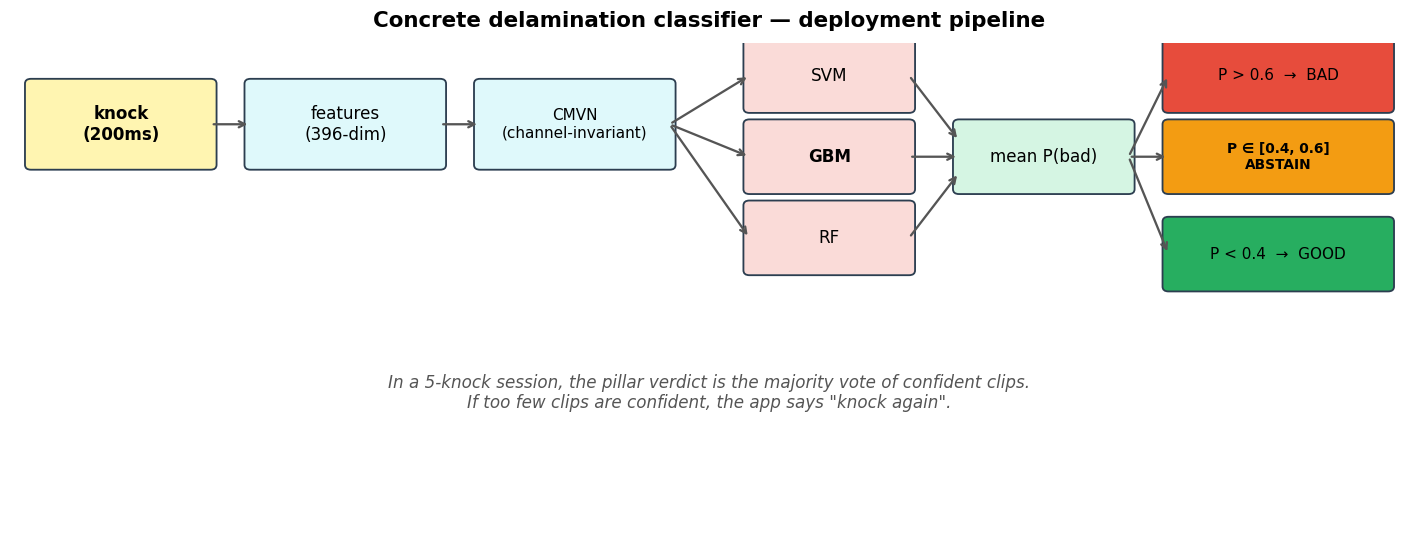
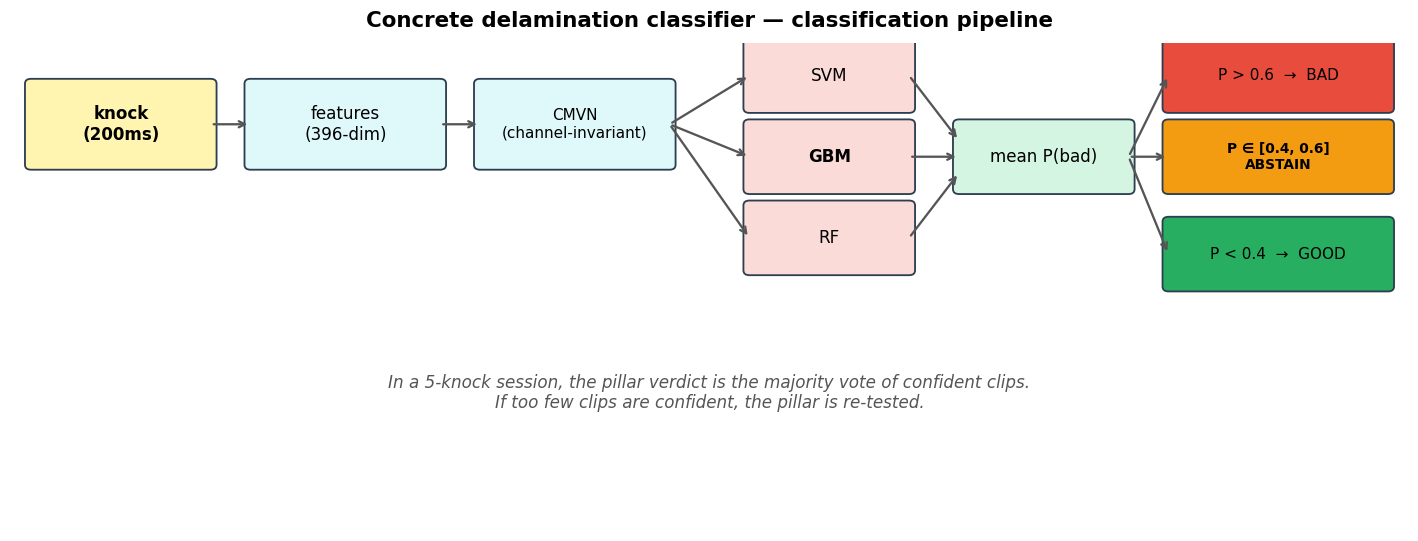
Rewrite README and remove deployment-target framing from notebooks

Changed region(s): [[0.2482, 0.0, 0.7447, 0.0591], [0.3413, 0.7098, 0.6516, 0.7689]]

diff --git a/README.md b/README.md
@@ -1,94 +1,91 @@
 # Acoustic Delamination Detection
 
-Concrete delaminates from the inside. Water gets into the rebar, the rebar rusts, the rust expands, and a
-void opens up between the steel and the surface — all of it invisible from outside. The standard way to find
-it is the **tap test**: hit the concrete with a hammer or a coin and listen. Solid concrete rings. Delaminated
-concrete gives back a flat, dead thud.
+A binary classifier that distinguishes intact from delaminated concrete using the sound of a knock.
 
-That works, but it takes a trained ear, and a junior engineer on their first survey does not have one yet.
-This project trains a classifier to make that call from a phone recording of the knock.
+Concrete delaminates internally when water reaches the rebar and the resulting corrosion expands, opening a
+void between the steel and the surface. The defect is invisible from outside. The standard field method for
+locating it is the tap test: strike the surface and listen. Intact concrete rings; delaminated concrete
+returns a flat, damped thud. Performing the test reliably requires a trained ear, which makes it a
+reasonable candidate for automation.
 
-**580 knock recordings across 37 concrete pillars → mel-spectrogram features → an SVM + gradient boosting +
-random forest ensemble that abstains when it isn't sure.** Everything runs on a laptop CPU in about ten
-minutes. No GPU, no cloud, no deep learning.
+This repository contains the dataset, the feature pipeline, and the model. 580 knock recordings across 37
+concrete pillars are reduced to 396-dimensional feature vectors and classified by an ensemble of an RBF-SVM,
+a gradient boosting model, and a random forest, with an abstention zone for low-confidence clips.
 
-The eventual target was a phone doing this offline in the field, which is why the signal-processing constants
-are fixed at 16 kHz and a 200 ms window and why the classifiers are small enough to serialize. This repo is
-the model and the dataset; the mobile side isn't part of it.
+## Results
 
-| | Original model | This model |
+| | First model | Current model |
 |---|---|---|
 | Cross-validation accuracy | 96.3% | 87.1% |
-| **6 genuinely unseen pillars** | **50.0%** | **100% (6/6)** |
-| Per-clip on those pillars | 56.9% | 91.7% |
+| 6 unseen pillars, per-pillar | 50.0% | 100% (6/6) |
+| 6 unseen pillars, per-clip | 56.9% | 91.7% |
 
-Those two columns are the whole story, and the interesting part is that the first row got *worse*.
+The cross-validation figure decreased while performance on unseen pillars roughly doubled. The reason for
+that is the substance of this project.
 
 ![Holdout accuracy comparison](figures/viz_headline_accuracy.png)
 
----
+## Why the first model failed
 
-## The 96% that wasn't real
+The initial model was an RBF-SVM over 128 mel features. Leave-one-pillar-out cross-validation placed it at
+96.3%. Tested afterwards on six newly recorded pillars, three intact and three delaminated, it classified 3
+of 6 correctly, and every intact pillar was labelled delaminated.
 
-The first version of this was a straightforward RBF-SVM on 128 mel features. Leave-one-pillar-out
-cross-validation put it at 96.3%, which felt like a finished project.
+Four hypotheses were checked:
 
-Then I recorded six new pillars — three good, three delaminated — with the same phone, on a different day.
-The model got 3 out of 6. Every single good pillar was called delaminated. On the pillars it had never seen,
-it was worse than a coin flip that always guesses "bad."
+Overfitting was ruled out. Training accuracy was 91%, below the cross-validation figure, indicating no
+memorization of the training set.
 
-Diagnosing it ruled things out one at a time:
+Class imbalance was ruled out. Ablating `class_weight` produced no measurable change.
 
-- **Not overfitting.** Training accuracy was 91%, below the CV number. There was no memorization to find.
-- **Not class imbalance.** Ablating `class_weight` changed nothing.
-- **It was distribution shift.** A PCA projection showed the new *good* clips landing squarely inside the
-  region of feature space the model had learned as *bad*. New room, new mic distance, new background noise —
-  the features moved, and the decision boundary didn't follow.
-- **And the pillar selection was rigged, by me.** The original training set used 27 of the 31 pillars. Four
-  had been dropped as "noisy recordings." Those four were the only examples of varied recording conditions
-  in the entire dataset. I had thrown away exactly the data that would have taught the model to handle a
-  new room.
+Distribution shift was confirmed. Projecting both sets into a shared PCA basis showed the new intact clips
+falling inside the region the model had learned as delaminated. The recordings were made in a different room
+at a different microphone distance, which moved the features while the decision boundary stayed fixed.
+
+Biased pillar selection was also confirmed. The training set used 27 of 31 available pillars; four had been
+excluded for noisy recording quality. Those four were the only examples of varied recording conditions in
+the dataset, so removing them removed the only signal about recording variability the model could have
+learned from.
 
 ![Feature space PCA](figures/viz_feature_space.png)
 
-The 96% was measuring the wrong thing. Every fold of that cross-validation drew its test pillar from the
-same handful of recording sessions as its training pillars, so "unseen pillar" never meant "unseen
-conditions." The number was real; what it implied was not.
+The 96.3% was not a false measurement, but it did not measure generalization. Every cross-validation fold
+drew its test pillar from the same small set of recording sessions as its training pillars, so holding out a
+pillar never held out a recording condition.
 
-## What changed
+## Changes in the current model
 
-Six things, roughly in order of how much they mattered:
+**All 31 training pillars, no exclusions.** The four previously excluded pillars were restored.
+Cross-validated accuracy fell from 96.3% to 87.1%, reflecting the additional recording variability now
+present in the evaluation rather than a degradation of the model.
 
-**All 31 training pillars, no exclusions.** The noisy ones went back in. Cross-validated accuracy immediately
-fell from 96.3% to 87.1%. That drop is the point — the model didn't get worse, the measurement got honest.
+**Per-clip CMVN.** Normalizing each mel spectrogram to zero mean and unit variance per frequency band
+removes the constant channel response of the microphone and room. The technique is standard in speech
+recognition, where the equivalent problem is the same speaker recorded over different transmission channels.
 
-**Per-clip CMVN.** Normalizing each mel spectrogram to zero mean and unit variance per frequency band strips
-out the constant channel response of the mic and the room. It's borrowed straight from speech recognition,
-where the same problem shows up as "same speaker, different telephone."
+**Augmentation ×5.** Each training clip is expanded into five: volume jitter (±6 dB, for source distance),
+additive Gaussian noise (20–35 dB SNR, for room noise), onset jitter (±10 ms, for windowing error), and
+pitch shift (±0.4 semitones, for resonance variation). Holdout clips are never augmented.
 
-**Augmentation ×5.** Each training clip becomes five: volume jitter (±6 dB, standing in for mic distance),
-Gaussian noise at 20–35 dB SNR (different rooms), onset jitter (±10 ms, sloppy windowing), and pitch shift
-(±0.4 semitones, slight resonance variation). Holdout clips are never augmented.
+**396 features instead of 128.** The original set was mel mean and standard deviation. Added: CMVN-normalized
+mel, delta-mel capturing temporal evolution, eight spectral shape descriptors, three temporal descriptors,
+and a decay time τ fitted to the post-onset RMS envelope. τ is the physically motivated feature: intact
+concrete dissipates vibrational energy slowly, delaminated concrete dissipates it rapidly.
 
-**396 features instead of 128.** The originals were mel mean and standard deviation. Added: CMVN'd mel,
-delta-mel for how the sound evolves, eight spectral shape descriptors, three temporal ones, and a decay time
-τ fitted to the post-onset RMS envelope. That last one is the physically motivated one — intact concrete
-dissipates vibrational energy slowly, delaminated concrete kills it fast — and it's the feature I'd keep if
-I had to keep only one.
+**Three classifiers rather than one.** An RBF-SVM for smooth nonlinear boundaries, gradient boosting for
+feature interactions, and a random forest for noise tolerance, averaged over `P(bad)`. At 31 pillars there is
+insufficient data to identify the correct inductive bias in advance, so averaging across three reduces the
+cost of choosing wrongly.
 
-**Three models instead of one.** RBF-SVM for smooth nonlinear boundaries, gradient boosting for feature
-interactions, random forest for noise tolerance. Average their `P(bad)`. With 31 pillars there isn't enough
-data to know in advance which inductive bias is right, so the ensemble hedges.
-
-**Abstention.** Any clip landing in `P(bad) ∈ [0.4, 0.6]` doesn't get a vote. The pillar verdict is the
-majority of the clips that were actually confident. A 51% prediction and a 99% prediction are not the same
-claim and shouldn't be counted the same way.
+**Abstention.** Clips falling in `P(bad) ∈ [0.4, 0.6]` are excluded from the vote, and the pillar verdict is
+the majority of the remaining clips. A prediction at 51% carries different information from one at 99% and
+is not treated as equivalent.
 
 ![Pipeline](figures/viz_pipeline.png)
 
-## The data
+## Dataset
 
-580 recordings, all mono 16 kHz, each one knock lasting roughly 0.15–0.58 seconds.
+580 recordings, mono, 16 kHz, each containing one knock of roughly 0.15–0.58 seconds.
 
 ```
 data/
@@ -99,137 +96,131 @@ data/
 ```
 
 Filenames encode pillar and knock: `goodConcrete3-07.wav` is the 7th knock on good pillar 3. The holdout
-subdirectories carry a trailing digit from the segmentation script that split them out of the `.m4a`
-originals — `bad_194/` is pillar 19, `good_144/` is pillar 14. The notebooks strip it before reporting.
+subdirectories carry a trailing digit left by the segmentation script that split them out of the `.m4a`
+originals, so `bad_194/` is pillar 19 and `good_144/` is pillar 14. The notebooks strip it before reporting.
 
-The six holdout pillars were locked away before any of the v1 work started and touched exactly once, in the
-final evaluation cell. Nothing about the feature design, the model choice, the hyperparameters, or the
-abstention window was chosen with any knowledge of them. That discipline is the only reason the 100% means
-anything.
+The six holdout pillars were separated before any of the current model's development and were used once, in
+the final evaluation cell. No feature, hyperparameter, model, or threshold was selected with reference to
+them.
 
-**Evaluation is leave-one-pillar-out, never a random clip split.** All the clips from one pillar share a
-recording session, a microphone position, and a physical piece of concrete. Splitting them randomly puts
-near-duplicates on both sides of the line and produces a number in the high nineties that means nothing.
+## Evaluation protocol
+
+Evaluation is leave-one-pillar-out, never a random clip-level split. All clips from a single pillar share a
+recording session, a microphone position, and one physical piece of concrete, so a random split places
+near-duplicates on both sides of the partition and inflates the result substantially.
 
 ![Waveforms](figures/viz_waveforms.png)
 
 ![Mel spectrograms](figures/viz_mel_spectrograms.png)
 
-The difference is visible if you know where to look — good knocks hold energy in the low bands longer — but
-it's not something you'd reliably eyeball across 580 clips, which is the argument for a classifier.
+The class difference is partially visible in the spectrograms, with intact knocks retaining low-band energy
+longer, but it is not consistent enough across 580 clips to be applied by inspection.
 
-## Results
+## Detailed results
 
-On the six held-out pillars:
+Six held-out pillars:
 
-| Setup | Per-pillar | Per-clip |
+| Configuration | Per-pillar | Per-clip |
 |---|---|---|
 | Ensemble, threshold 0.5 | 83.3% (5/6) | 91.7% (66/72) |
-| **Ensemble + abstention** | **100% (6/6)** | 91.7% |
+| Ensemble with abstention | 100% (6/6) | 91.7% |
 | Gradient boosting alone | 100% (6/6) | 95.8% |
 | Random forest alone | 100% (6/6) | 95.8% |
 | SVM alone | 83.3% (5/6) | 91.7% |
-| Original SVM | 50.0% (3/6) | 56.9% |
+| First model | 50.0% (3/6) | 56.9% |
 
-Mean `P(bad)` was 13.6% on the good pillars and 82.3% on the delaminated ones. 3 clips out of 72 abstained —
-4.2%, or about one knock in a five-knock session, where the fix is "knock again."
+Mean `P(bad)` was 13.6% on intact pillars and 82.3% on delaminated ones. 3 of 72 clips abstained, a rate of
+4.2%, corresponding to roughly one knock in a five-knock sequence.
 
 ![Per-clip predictions](figures/viz_per_clip_with_abstention.png)
 
-Within-distribution, leave-one-pillar-out over the 31 training pillars gives 87.1% for the ensemble and
+Within distribution, leave-one-pillar-out over the 31 training pillars gives 87.1% for the ensemble and
 93.5% for the random forest alone.
 
-**Report both numbers or neither.** 87.1% cross-validated and 100% on holdout look contradictory until you
-notice they measure different things: 87.1% is 31 pillars' worth of hard cases including the noisy
-recordings, and 100% is six pillars — a sample small enough that one bad pillar would have made it 83%.
-Quoting either alone is misleading in a different direction.
+The two headline figures measure different quantities and are reported together. 87.1% covers 31 pillars
+including the noisy recordings; 100% covers six pillars, a sample small enough that a single additional
+error would reduce it to 83%. Either figure quoted alone misrepresents the result.
 
-### The one that nearly broke it
+### Failure case: bad_21
 
-`bad_21` is the only pillar the ensemble gets wrong at threshold 0.5. Ten clips, five of them called good,
-mean `P(bad)` of 58% — a tied vote resolved the wrong way. With abstention, three borderline clips drop out
-and the remaining seven split 4–3 in favour of BAD, which is correct but not exactly convincing. Gradient
-boosting and random forest each get it right on their own; the SVM is what drags the average down.
+`bad_21` is the only pillar the ensemble misclassifies at threshold 0.5. Of its ten clips, five are labelled
+intact, giving a mean `P(bad)` of 58% and a tied vote resolved incorrectly. Under abstention, three
+borderline clips are removed and the remaining seven split 4–3 toward the correct verdict, which is a narrow
+margin. Gradient boosting and the random forest each classify it correctly without assistance; the SVM
+accounts for most of the error in the average.
 
-I'd want to physically inspect that pillar. My guess is it's genuinely marginal — early-stage delamination,
-or a thin void — and that the model is picking up something real.
+The pillar warrants physical inspection. A plausible explanation is genuinely marginal delamination, such as
+an early-stage or thin void, in which case the model is responding to a real property of the sample.
 
 ![Confusion matrix](figures/viz_confusion_matrix.png)
 
-## Running it
+## Running the notebooks
 
-Python 3.14 with librosa, scikit-learn, numpy and matplotlib. Developed on macOS, nothing platform-specific.
+Python 3.14 with librosa, scikit-learn, numpy, and matplotlib.
 
 ```bash
 python3 -m venv .venv
 .venv/bin/pip install -r requirements.txt
 ```
 
-Train and evaluate — around 10 minutes the first time, most of it feature extraction, then ~5 minutes on
-re-runs once features are cached to `model/`:
+Train and evaluate. The first run takes about ten minutes, most of it feature extraction; subsequent runs
+take about five once features are cached to `model/`.
 
 ```bash
 .venv/bin/jupyter nbconvert --to notebook --execute --inplace \
   --ExecutePreprocessor.timeout=900 notebooks/Ensemble_Abstention_Model.ipynb
 ```
 
-Regenerate the figures (~30 seconds, but it reads the feature cache, so run the model notebook first):
+Regenerate the figures. This reads the feature cache, so the model notebook must be run first.
 
 ```bash
 .venv/bin/jupyter nbconvert --to notebook --execute --inplace \
   --ExecutePreprocessor.timeout=300 notebooks/Data_Visualization.ipynb
 ```
 
-Or open them and step through:
-
-```bash
-.venv/bin/jupyter notebook notebooks/Ensemble_Abstention_Model_Annotated.ipynb
-```
-
-| Notebook | What it is |
+| Notebook | Contents |
 |---|---|
-| `Ensemble_Abstention_Model.ipynb` | The model. Feature extraction, augmentation, LOPO, final fit, holdout evaluation. |
-| `Ensemble_Abstention_Model_Annotated.ipynb` | Same pipeline, written out with the reasoning at each step, plus a cell for classifying a single new recording. |
-| `Data_Visualization.ipynb` | Produces the nine figures in `figures/`. |
+| `Ensemble_Abstention_Model.ipynb` | Feature extraction, augmentation, LOPO cross-validation, final fit, holdout evaluation. |
+| `Ensemble_Abstention_Model_Annotated.ipynb` | The same pipeline with the reasoning for each step, plus a cell for classifying an arbitrary audio file. |
+| `Data_Visualization.ipynb` | Generates the nine figures in `figures/`. |
 
-The notebooks find the project root by walking up from the working directory until they see `data/` and
-`model/`, so they run from anywhere in the repo. Committed outputs are from a real end-to-end run with no
-cache present — the numbers in this README can be checked against them without executing anything.
+The notebooks locate the project root by walking up from the working directory until `data/` and `model/`
+are found, so they run from any location within the repository. Committed outputs come from a full run with
+no cache present, and the figures above were generated from that same run.
 
-One caveat on exact reproducibility: the classifiers are seeded, but the augmentation RNG is seeded once at
-import rather than per clip, so running the cells out of order shifts which noise draw lands on which clip.
-Headline figures come out identical run to run; individual sub-metrics can move by a point or so.
+The classifiers are seeded. The augmentation RNG is seeded once at import rather than per clip, so executing
+cells out of order changes which noise draw is applied to which clip. Headline figures are stable across
+runs; individual sub-metrics can vary by about a percentage point.
 
-## Limits
+## Limitations
 
-**N=31 pillars is the binding constraint on everything.** Not 508 clips — 31 pillars, because clips from one
-pillar are not independent observations. Every design decision here is downstream of that number: it's why
-there's augmentation instead of more capacity, why it's three sklearn models instead of a CNN, and why the
-holdout is six pillars instead of a proper test set.
+31 pillars is the binding constraint. The relevant sample size is pillars rather than the 508 training
+clips, since clips from one pillar are not independent observations. Augmentation instead of additional
+model capacity, three sklearn models instead of a neural network, and a six-pillar holdout instead of a
+conventional test set are all consequences of that number.
 
-**Six holdout pillars is a small test.** 6/6 is the best result available at this sample size and it still
-has wide error bars. It's evidence the rebuild worked, not proof the model is 100% accurate.
+Six holdout pillars is a small test. 6/6 is the strongest available result at this sample size and carries
+correspondingly wide error bars.
 
-**Recording conditions still aren't controlled.** Everything was recorded handheld. A fixed phone-to-surface
-jig would remove most of the remaining variance, and would probably do more for accuracy than any further
-modelling.
+Recording conditions are uncontrolled. All recordings were taken handheld. A fixed mounting jig would remove
+most of the remaining variance and would likely yield more improvement than further modelling.
 
-**Binary labels flatten a spectrum.** Delamination has degrees, and `bad_21` is what that looks like when
-you force it into two classes.
+Binary labels compress a continuous property. Delamination varies in severity, and `bad_21` illustrates the
+result of forcing a marginal case into two classes.
 
-What I'd do next, in order: 50+ pillars per class recorded under at least three different conditions, a
-recording jig, then severity as an ordinal label rather than a binary one.
+Further work, in order of expected value: 50 or more pillars per class recorded under at least three
+distinct conditions, a fixed recording jig, and severity as an ordinal label in place of a binary one.
 
-## Layout
+## Repository layout
 
 ```
 notebooks/     model, annotated walkthrough, figure generation
-data/          580 wav clips + raw source recordings
+data/          580 wav clips and raw source recordings
 figures/       the nine figures used above
 model/         feature cache, generated on first run (gitignored)
 ```
 
 ## License
 
-MIT — see [LICENSE](LICENSE). The audio recordings are included under the same terms; attribution is
-appreciated if you use the dataset.
+MIT, see [LICENSE](LICENSE). The audio recordings are covered by the same terms; attribution is appreciated
+if the dataset is reused.
